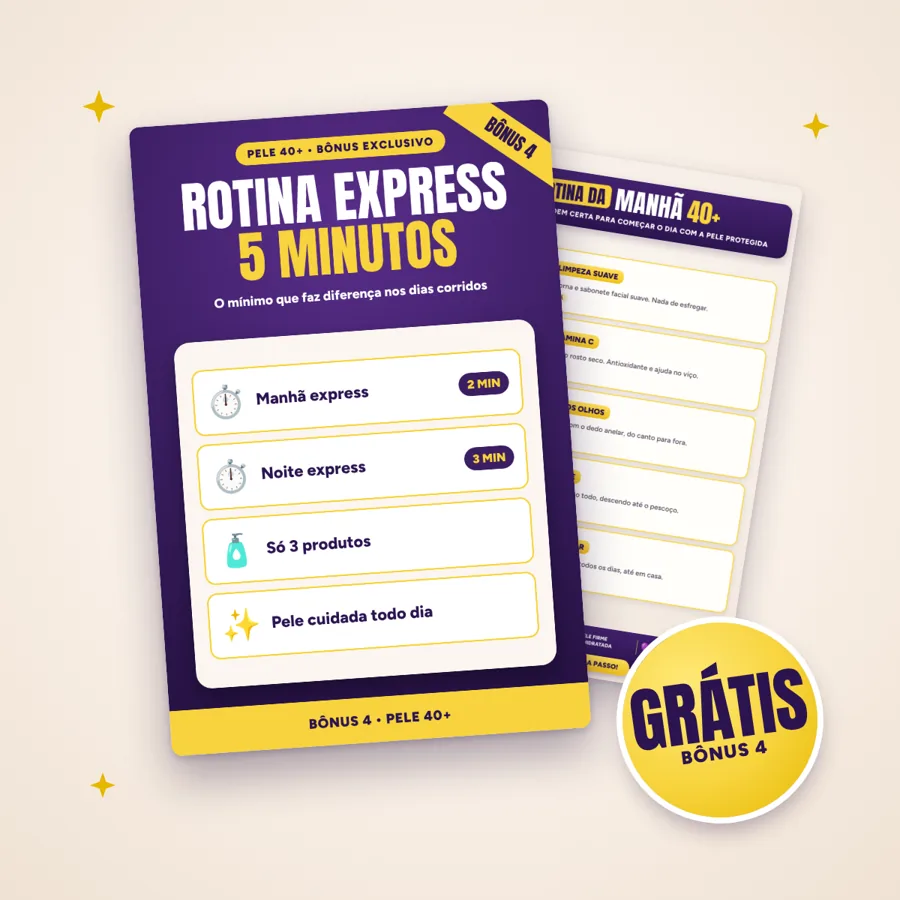
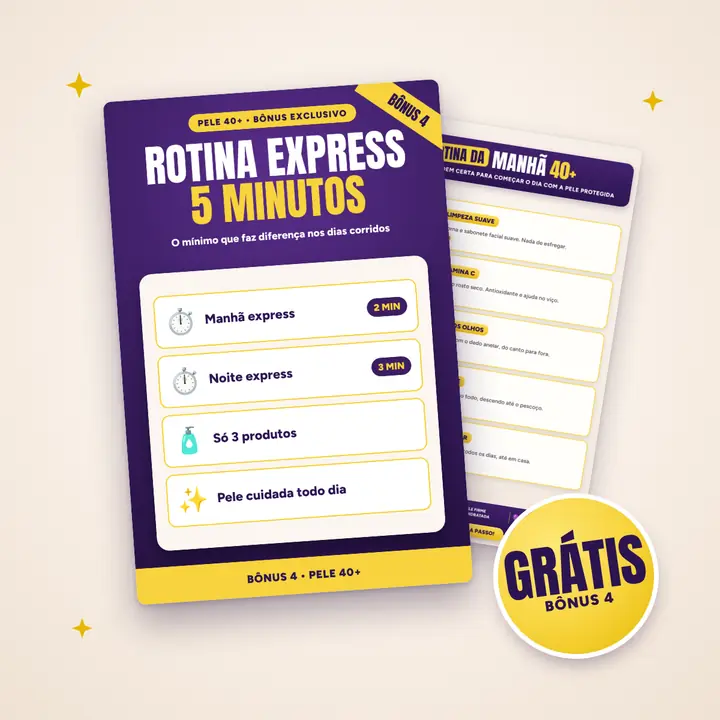
UTMify, redirecionamento centralizado com parâmetros e imagens otimizadas
Claude-Session: https://claude.ai/code/session_01KVoTCYP1rLWjKQ49iBeVBC

diff --git a/index.html b/index.html
@@ -13,7 +13,28 @@
 <link rel="preconnect" href="https://fonts.googleapis.com">
 <link rel="preconnect" href="https://fonts.gstatic.com" crossorigin>
 <link href="https://fonts.googleapis.com/css2?family=Figtree:wght@400;600;800&family=Literata:opsz,wght@7..72,600;7..72,700&display=swap" rel="stylesheet">
+<link rel="preload" as="image" href="img/hero.webp" fetchpriority="high">
 <link rel="stylesheet" href="style.css">
+
+<!-- UTMify -->
+<script src="https://cdn.utmify.com.br/scripts/utms/latest.js" data-utmify-prevent-xcod-sck data-utmify-prevent-subids async defer></script>
+
+<!-- Redirecionamento centralizado: TODO redirecionamento passa por aqui e leva os parâmetros da URL (UTM, fbclid, gclid etc.) -->
+<script>
+function redirectWithParams(destination) {
+  const currentParams = window.location.search;
+  if (!currentParams) {
+    window.location.href = destination;
+    return;
+  }
+  if (destination.includes("?")) {
+    window.location.href = destination + "&" + currentParams.substring(1);
+  } else {
+    window.location.href = destination + currentParams;
+  }
+}
+window.redirectWithParams = redirectWithParams;
+</script>
 
 <!-- PIXEL DA META: cole aqui o código do seu pixel -->
 
@@ -31,7 +52,7 @@
     <span class="badge"><span class="dia-noite" aria-hidden="true"></span>Pele 40+ • Mapas visuais</span>
     <h1>+50 mapas visuais sobre o que passar de manhã e à noite na pele depois dos 40, na ordem certa e sem gastar com o produto errado</h1>
 
-    <img class="hero-img" src="img/hero.webp" alt="Pele 40+: capa e mapas visuais das rotinas da manhã e da noite" width="1500" height="1000" fetchpriority="high">
+    <img class="hero-img" src="img/hero.webp" alt="Pele 40+: capa e mapas visuais das rotinas da manhã e da noite" width="900" height="600" fetchpriority="high" decoding="async">
 
     <ul class="checks">
       <li>Sua rotina de manhã e de noite, passo a passo</li>
@@ -183,7 +204,7 @@
 <section class="secao alt">
   <div class="wrap">
     <h2>Tudo que você vai receber</h2>
-    <div class="slot grande"><img src="img/receber.webp" alt="" onerror="this.remove()" width="800" height="800" loading="lazy"><span>Colagem do kit</span></div>
+    <div class="slot grande"><img src="img/receber.webp" alt="" onerror="this.remove()" width="800" height="800" loading="lazy" decoding="async"><span>Colagem do kit</span></div>
     <ul class="checks esq">
       <li>10 mapas Entenda sua Pele 40+</li>
       <li>10 mapas Rotina da Manhã</li>
@@ -195,25 +216,25 @@
     <!-- 11. BÔNUS -->
     <div class="bonus">
       <article>
-        <div class="slot"><img src="img/bonus-1.webp" alt="" onerror="this.remove()" width="600" height="600" loading="lazy"><span>Bônus 1</span></div>
+        <div class="slot"><img src="img/bonus-1.webp" alt="" onerror="this.remove()" width="600" height="600" loading="lazy" decoding="async"><span>Bônus 1</span></div>
         <h3>Rotina por Orçamento</h3>
         <p class="preco-bonus"><s>R$27</s> grátis</p>
         <p>Sua lista de compras pronta em 3 faixas: farmácia, intermediária e premium.</p>
       </article>
       <article>
-        <div class="slot"><img src="img/bonus-2.webp" alt="" onerror="this.remove()" width="600" height="600" loading="lazy"><span>Bônus 2</span></div>
+        <div class="slot"><img src="img/bonus-2.webp" alt="" onerror="this.remove()" width="600" height="600" loading="lazy" decoding="async"><span>Bônus 2</span></div>
         <h3>Calendário do Retinol</h3>
         <p class="preco-bonus"><s>R$27</s> grátis</p>
         <p>8 semanas pra introduzir o retinol aos poucos, sem irritar. Pronto pra imprimir.</p>
       </article>
       <article>
-        <div class="slot"><img src="img/bonus-3.webp" alt="" onerror="this.remove()" width="600" height="600" loading="lazy"><span>Bônus 3</span></div>
+        <div class="slot"><img src="img/bonus-3.webp" alt="" onerror="this.remove()" width="600" height="600" loading="lazy" decoding="async"><span>Bônus 3</span></div>
         <h3>Decodificador de Rótulos</h3>
         <p class="preco-bonus"><s>R$19</s> grátis</p>
         <p>O que olhar na embalagem antes de pagar, pra nunca mais cair em promessa vazia.</p>
       </article>
       <article>
-        <div class="slot"><img src="img/bonus-4.webp" alt="" onerror="this.remove()" width="600" height="600" loading="lazy"><span>Bônus 4</span></div>
+        <div class="slot"><img src="img/bonus-4.webp" alt="" onerror="this.remove()" width="600" height="600" loading="lazy" decoding="async"><span>Bônus 4</span></div>
         <h3>Rotina Express 5 Minutos</h3>
         <p class="preco-bonus"><s>R$19</s> grátis</p>
         <p>A versão enxuta pros dias corridos: o mínimo que faz diferença.</p>
@@ -229,7 +250,7 @@
 
     <article class="plano destaque">
       <span class="mais-vendido">Mais vendido</span>
-      <div class="slot"><img src="img/plano-completo.webp" alt="" onerror="this.remove()" width="600" height="450" loading="lazy"><span>Imagem do Plano Completo</span></div>
+      <div class="slot"><img src="img/plano-completo.webp" alt="" onerror="this.remove()" width="600" height="450" loading="lazy" decoding="async"><span>Imagem do Plano Completo</span></div>
       <h3>Plano Completo</h3>
       <p class="de">De <s>R$67,90</s> por</p>
       <p class="por">R$34,90</p>
@@ -255,7 +276,7 @@
     </article>
 
     <article class="plano">
-      <div class="slot"><img src="img/plano-basico.webp" alt="" onerror="this.remove()" width="600" height="450" loading="lazy"><span>Imagem do Plano Básico</span></div>
+      <div class="slot"><img src="img/plano-basico.webp" alt="" onerror="this.remove()" width="600" height="450" loading="lazy" decoding="async"><span>Imagem do Plano Básico</span></div>
       <h3>Plano Básico</h3>
       <p class="por">R$19,90</p>
       <ul class="lista-plano">

diff --git a/main.js b/main.js
@@ -9,8 +9,17 @@
   document.querySelectorAll("[data-ano]").forEach(function (el) { el.textContent = hoje.getFullYear(); });
 
   // Checkout e parcelas
-  document.querySelectorAll('[data-checkout="completo"]').forEach(function (a) { a.href = C.checkoutCompleto || "#"; });
-  document.querySelectorAll('[data-checkout="basico"]').forEach(function (a) { a.href = C.checkoutBasico || "#"; });
+  // Botões de checkout: o clique sempre passa por redirectWithParams (mantém UTM, fbclid, gclid etc.)
+  var checkouts = { completo: C.checkoutCompleto, basico: C.checkoutBasico };
+  document.querySelectorAll("[data-checkout]").forEach(function (a) {
+    var destino = checkouts[a.getAttribute("data-checkout")] || "#";
+    a.href = destino;
+    a.addEventListener("click", function (e) {
+      if (!/^https?:\/\//i.test(destino)) return;
+      e.preventDefault();
+      redirectWithParams(destino);
+    });
+  });
   document.querySelectorAll("[data-parcelas]").forEach(function (el) { el.textContent = C.parcelas || 12; });
 
   // Carrosséis
@@ -22,7 +31,7 @@
       var slides = "";
       for (var i = 1; i <= c.qtd; i++) {
         slides += '<div class="slot slide"><img src="img/' + c.prefixo + "-" + i + '.webp" alt="Mapa ' + i + " — " + c.titulo +
-          '" loading="lazy" width="600" height="900" onerror="this.remove()"><span>Mapa ' + i + "</span></div>";
+          '" loading="lazy" decoding="async" width="600" height="900" onerror="this.remove()"><span>Mapa ' + i + "</span></div>";
       }
       bloco.innerHTML =
         "<h3>" + c.titulo + "</h3>" +
@@ -49,7 +58,7 @@
     deps.forEach(function (d) {
       var fig = document.createElement("figure");
       if (d.vazio) fig.className = "vazio";
-      var foto = d.foto ? '<img class="dep-foto" src="' + d.foto + '" alt="" width="64" height="64" loading="lazy">' : "";
+      var foto = d.foto ? '<img class="dep-foto" src="' + d.foto + '" alt="" width="64" height="64" loading="lazy" decoding="async">' : "";
       fig.innerHTML = '<span class="aspas" aria-hidden="true">\u201C</span><blockquote></blockquote><figcaption>' + foto + "<span><b></b><small></small></span></figcaption>";
       fig.querySelector("blockquote").textContent = d.texto;
       fig.querySelector("b").textContent = d.nome || "";
